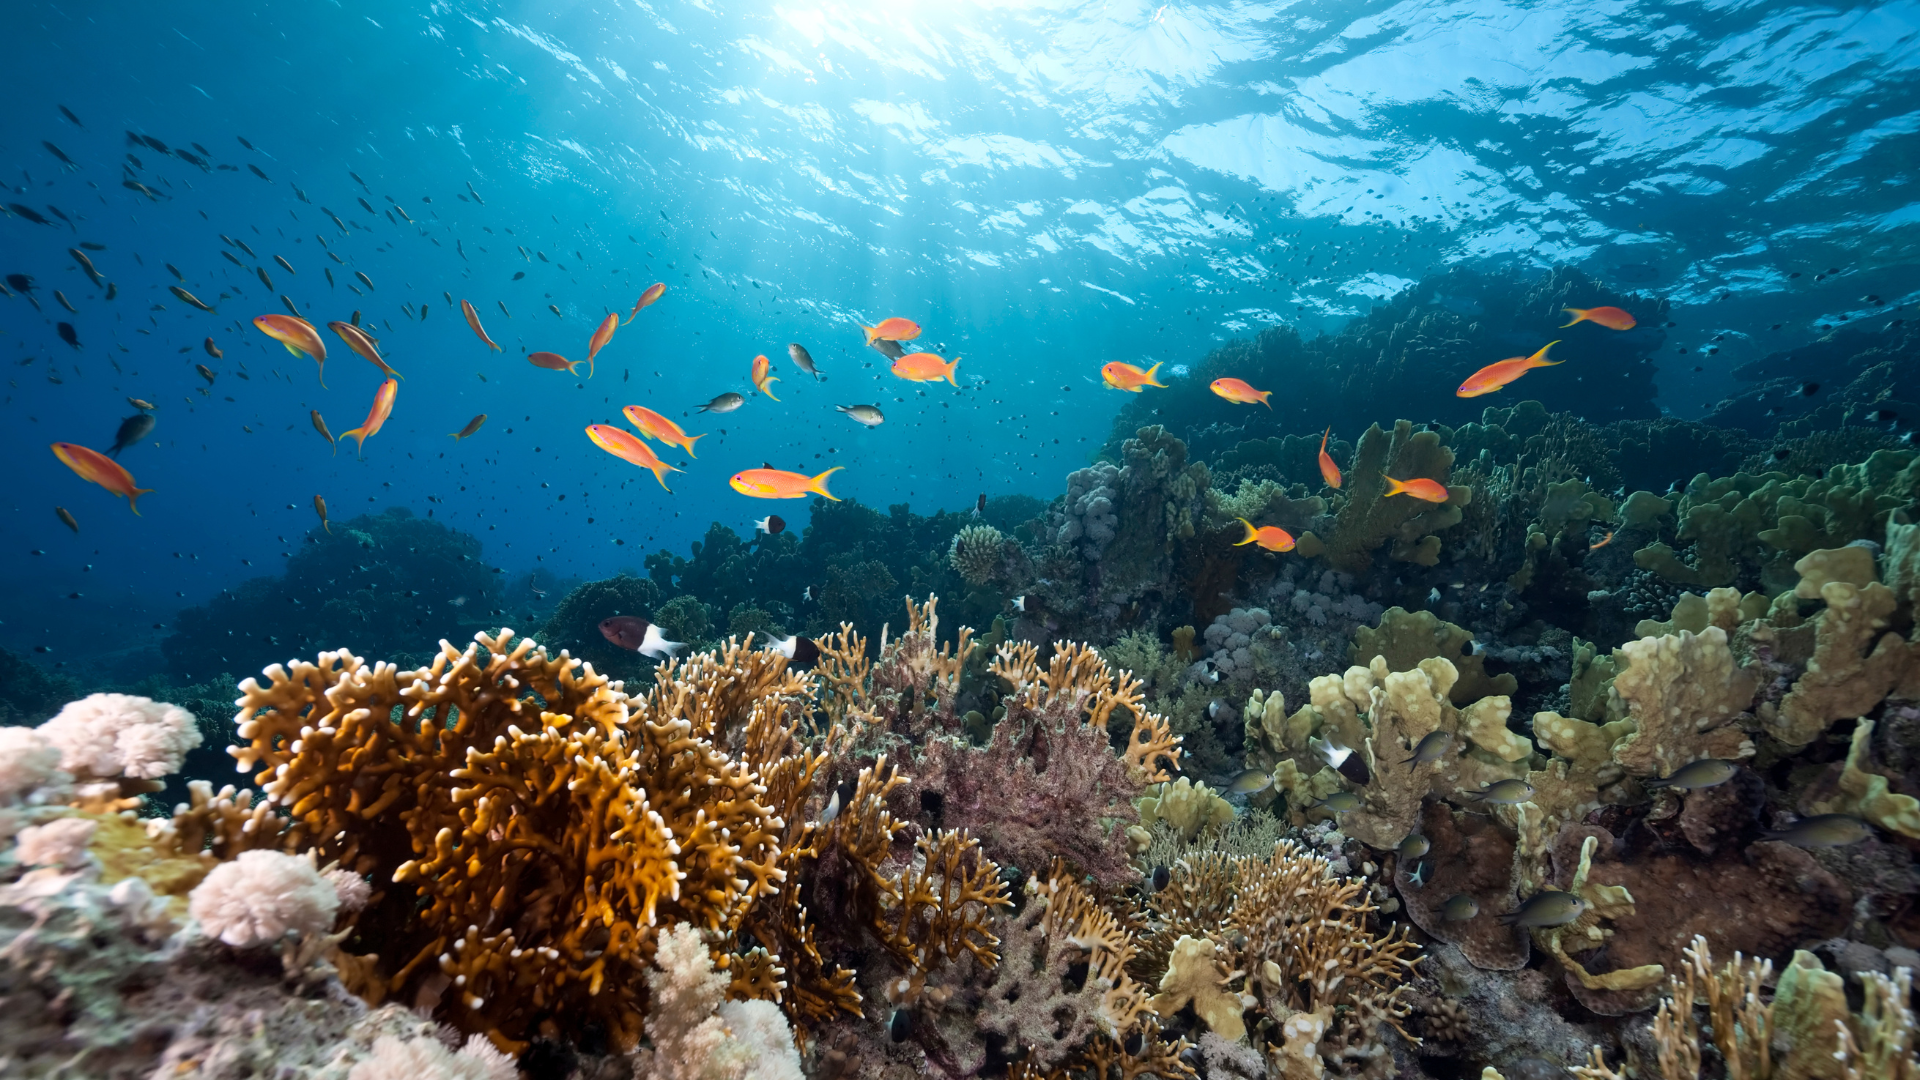
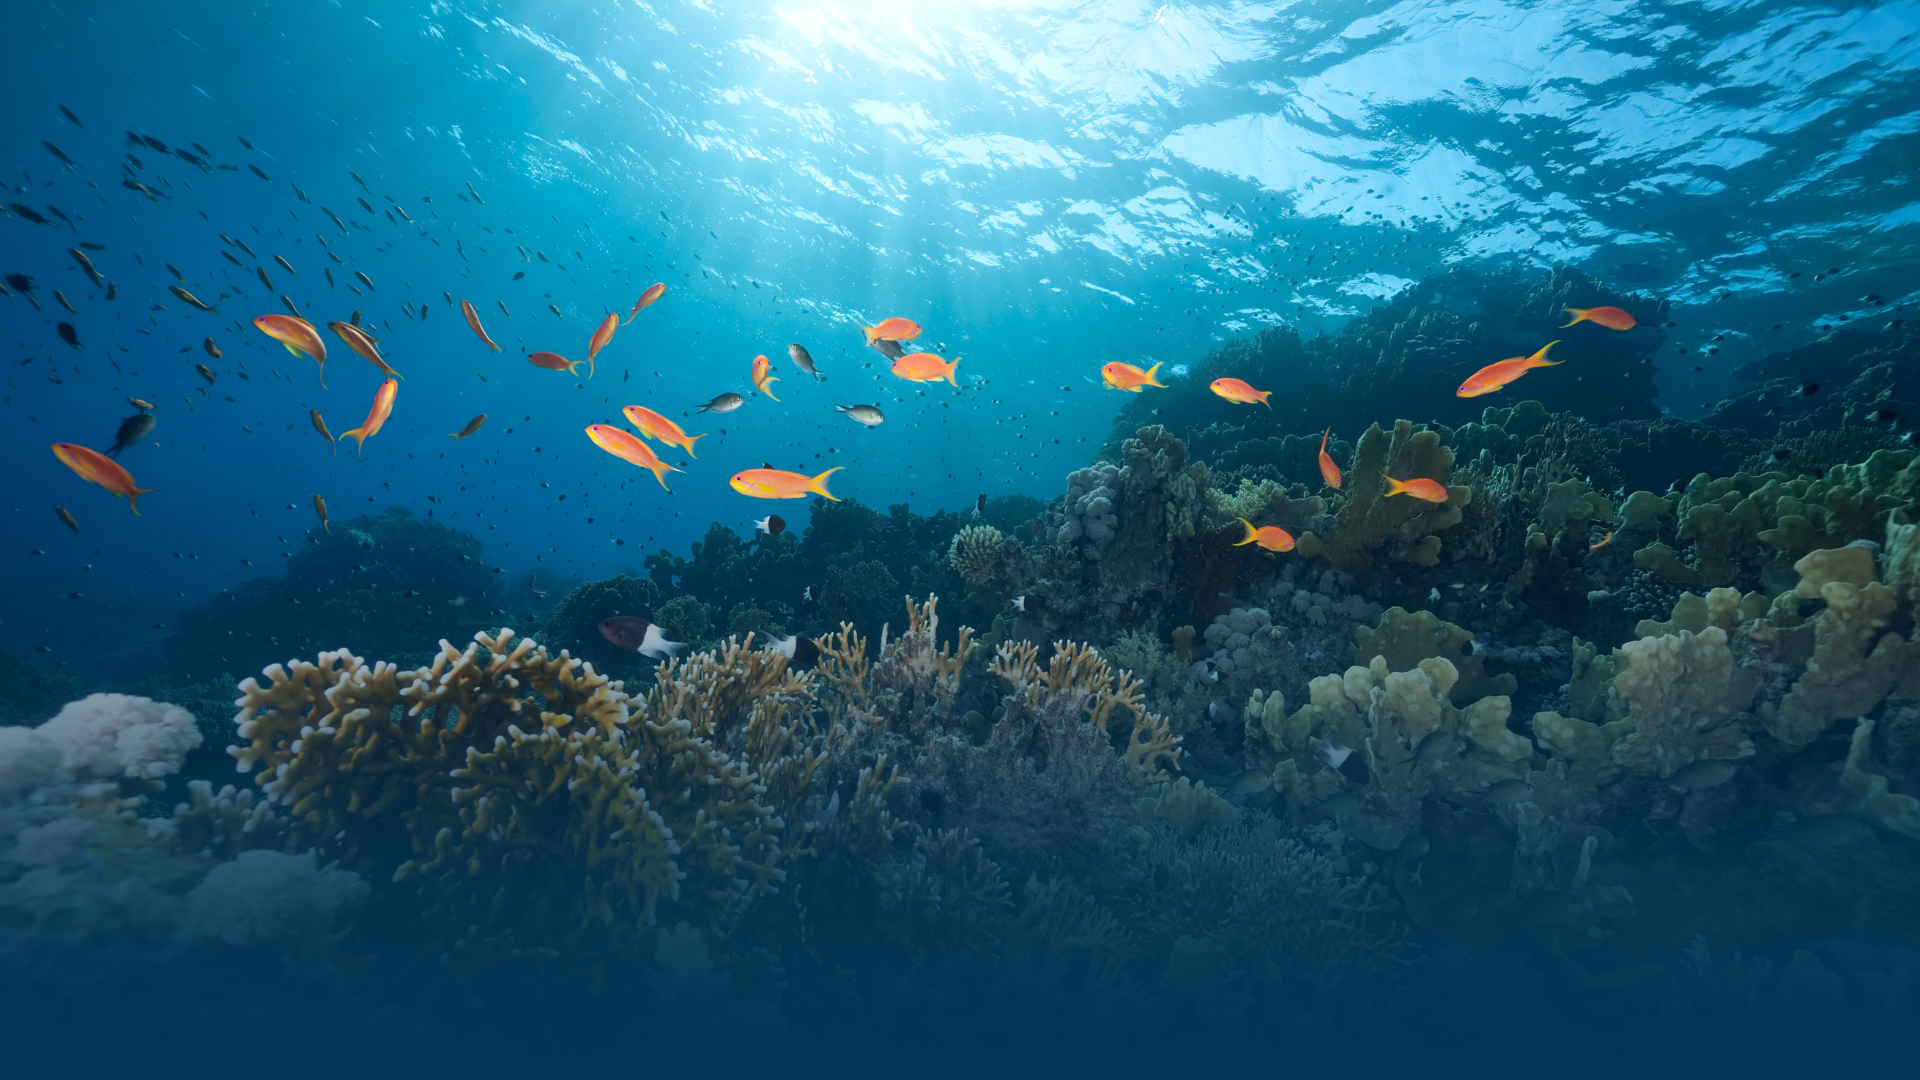
Atualiza imagens do hero

diff --git a/index.html b/index.html
@@ -58,31 +58,11 @@
             <button class="next">❯</button>
         </div>
     </main>
+
+    <section class="">
+        <article>adkajshdkajhsdkj</article>
+    </section>
     
-
-    <script>
-        document.addEventListener('DOMContentLoaded', function () {
-            let currentIndex = 0;
-            const slides = document.querySelectorAll('.slide');
-            const totalSlides = slides.length;
-        
-            document.querySelector('.next').addEventListener('click', function () {
-                currentIndex = (currentIndex + 1) % totalSlides;
-                updateCarousel();
-            });
-        
-            document.querySelector('.prev').addEventListener('click', function () {
-                currentIndex = (currentIndex - 1 + totalSlides) % totalSlides;
-                updateCarousel();
-            });
-        
-            function updateCarousel() {
-                const offset = -currentIndex * 100;
-                document.querySelector('.slides').style.transform = `translateX(${offset}%)`;
-            }
-        });
-        </script>
-
     <script src="./js/script.js"></script>
 </body>
 </html>

diff --git a/css/style.css b/css/style.css
@@ -152,6 +152,7 @@ button.next {
 
 .slide img{
     height: 100%;
+    background: linear-gradient(to bottom, rgba(6, 18, 30, 1), #06121e);
 }
 
 .slide-text {
@@ -163,7 +164,7 @@ button.next {
 
 button.prev, button.next {
     padding: 5px;
-    font-size: 4vw;
+    font-size: 2vw;
 }
 
 @media (max-width: 576px) {
